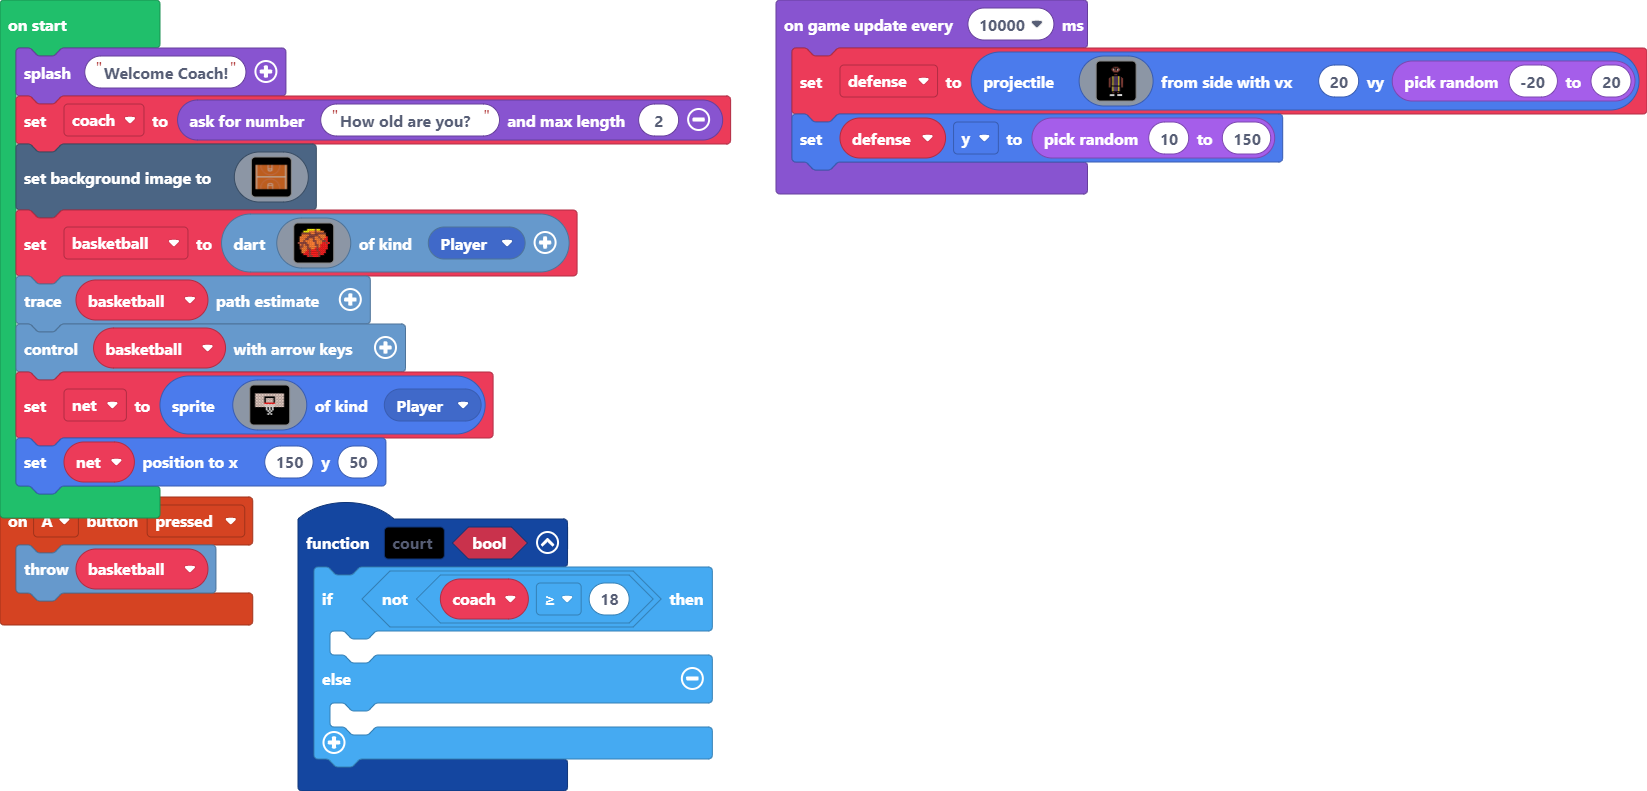
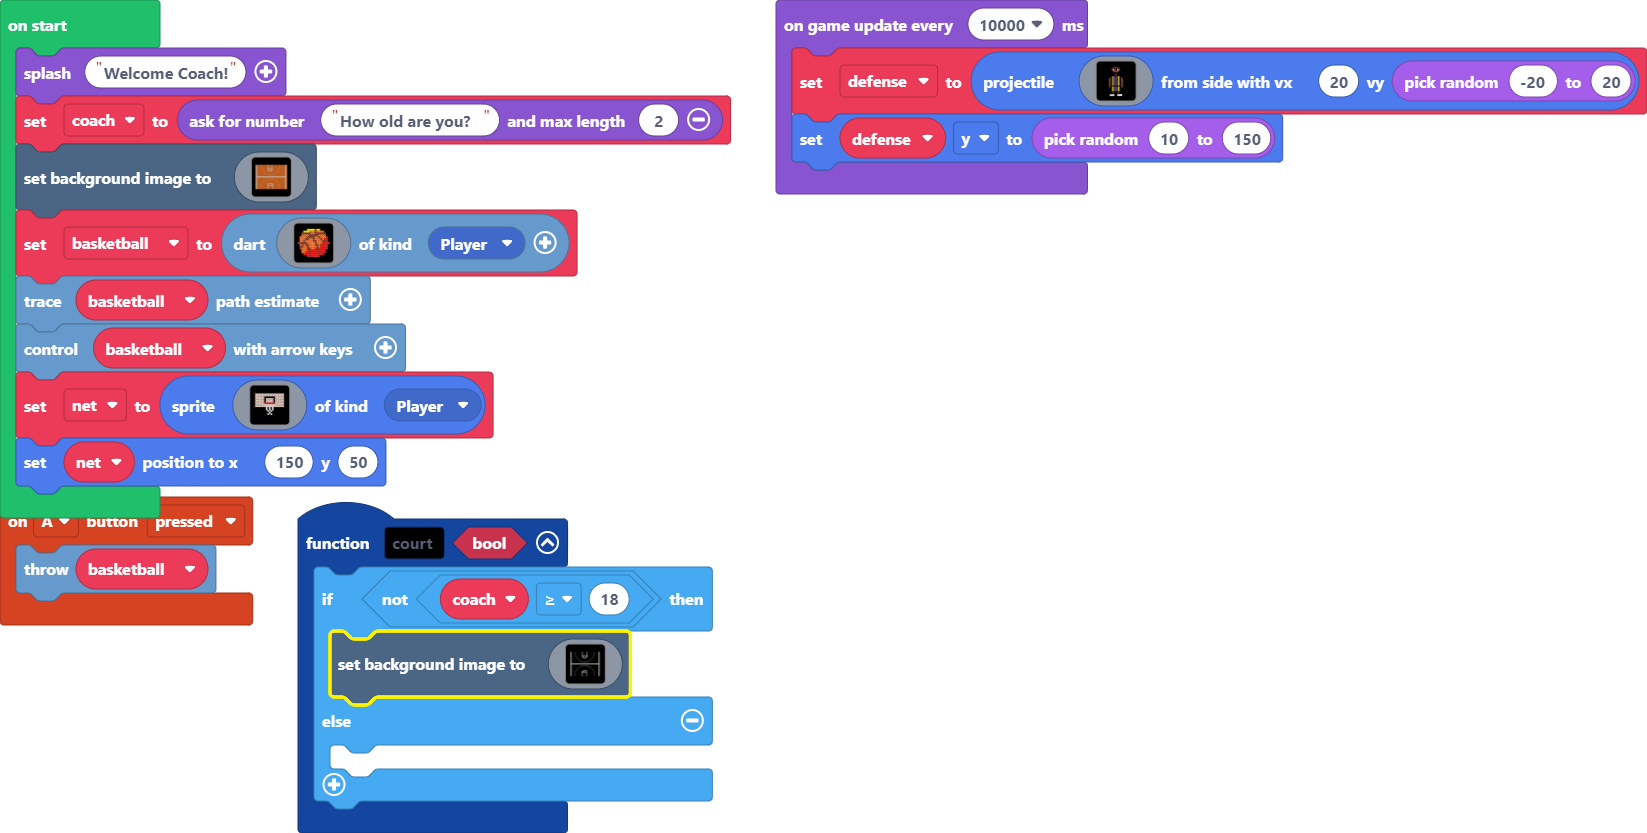
Update main.blocks, main.ts

Changed region(s): [[0.0, 0.0, 1.0, 0.9709]]

diff --git a/main.ts b/main.ts
@@ -3,7 +3,128 @@ controller.A.onEvent(ControllerButtonEvent.Pressed, function () {
 })
 function court (bool: boolean) {
     if (!(coach >= 18)) {
-    	
+        scene.setBackgroundImage(img`
[120 lines of base64/hex data omitted]
+            `)
     } else {
     	
     }
